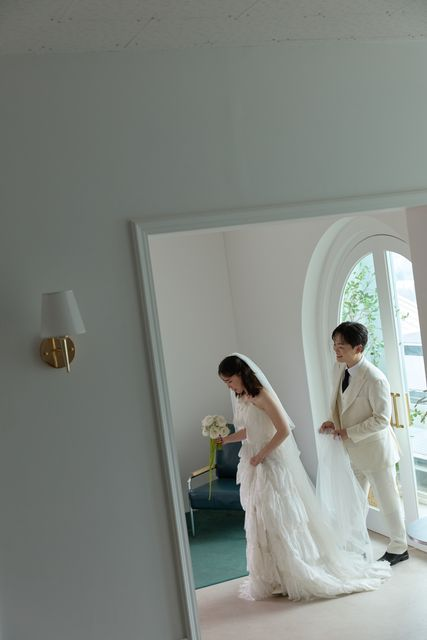
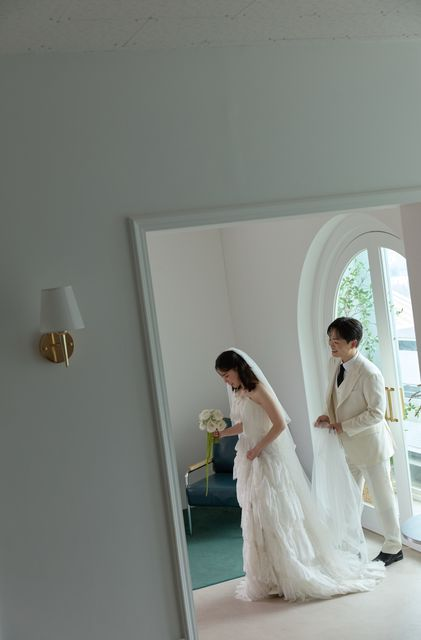
Update gallery photo 16 and refresh gallery cache
- Rebuild gallery high-res and thumbnail for updated 16.jpg
- Update gallery.js metadata with new hash (34f580fb) and dimensions (3916x5960)
- Bump gallery.js cache version to v=cdc24c75 in index.html

diff --git a/img/gallery/gallery.js b/img/gallery/gallery.js
@@ -1,2 +1,2 @@
-// tools/build_gallery.py 가 자동으로 만든 파일입니다. 직접 고치지 마세요.
-window.GALLERY = [{"file": "01.jpg", "v": "814454f7", "w": 3168, "h": 4752}, {"file": "02.jpg", "v": "5aca3f9f", "w": 2962, "h": 4443}, {"file": "03.jpg", "v": "5e148f35", "w": 3168, "h": 4752}, {"file": "04.jpg", "v": "ad3e6e6f", "w": 3168, "h": 4752}, {"file": "05.jpg", "v": "c45e9960", "w": 3168, "h": 4752}, {"file": "06.jpg", "v": "8d314324", "w": 3168, "h": 4752}, {"file": "07.jpg", "v": "007f74ca", "w": 4752, "h": 3168}, {"file": "08.jpg", "v": "6290e4d9", "w": 3168, "h": 4752}, {"file": "09.jpg", "v": "1debfd34", "w": 3168, "h": 4752}, {"file": "10.jpg", "v": "6186aca5", "w": 3917, "h": 5875}, {"file": "11.jpg", "v": "133d43b0", "w": 4000, "h": 6000}, {"file": "12.jpg", "v": "187aa15f", "w": 6000, "h": 4000}, {"file": "13.jpg", "v": "2c0ca527", "w": 5875, "h": 3917}, {"file": "14.jpg", "v": "098939de", "w": 3917, "h": 5875}, {"file": "15.jpg", "v": "b7012521", "w": 3917, "h": 5875}, {"file": "16.jpg", "v": "2ad77dd8", "w": 3917, "h": 5875}, {"file": "17.jpg", "v": "4eab936a", "w": 3917, "h": 5875}, {"file": "18.jpg", "v": "fd4e1887", "w": 4000, "h": 6000}, {"file": "19.jpg", "v": "a855bd5c", "w": 4000, "h": 6000}, {"file": "20.jpg", "v": "9a4831ae", "w": 4000, "h": 6000}, {"file": "21.jpg", "v": "c0d60d5d", "w": 2352, "h": 1568}];
+// tools/build_gallery.py 가 자동 생성한 파일입니다. 직접 고치지 마세요.
+window.GALLERY = [{"file": "01.jpg", "v": "814454f7", "w": 3168, "h": 4752}, {"file": "02.jpg", "v": "5aca3f9f", "w": 2962, "h": 4443}, {"file": "03.jpg", "v": "5e148f35", "w": 3168, "h": 4752}, {"file": "04.jpg", "v": "ad3e6e6f", "w": 3168, "h": 4752}, {"file": "05.jpg", "v": "c45e9960", "w": 3168, "h": 4752}, {"file": "06.jpg", "v": "8d314324", "w": 3168, "h": 4752}, {"file": "07.jpg", "v": "007f74ca", "w": 4752, "h": 3168}, {"file": "08.jpg", "v": "6290e4d9", "w": 3168, "h": 4752}, {"file": "09.jpg", "v": "1debfd34", "w": 3168, "h": 4752}, {"file": "10.jpg", "v": "6186aca5", "w": 3917, "h": 5875}, {"file": "11.jpg", "v": "133d43b0", "w": 4000, "h": 6000}, {"file": "12.jpg", "v": "187aa15f", "w": 6000, "h": 4000}, {"file": "13.jpg", "v": "2c0ca527", "w": 5875, "h": 3917}, {"file": "14.jpg", "v": "098939de", "w": 3917, "h": 5875}, {"file": "15.jpg", "v": "b7012521", "w": 3917, "h": 5875}, {"file": "16.jpg", "v": "34f580fb", "w": 3916, "h": 5960}, {"file": "17.jpg", "v": "4eab936a", "w": 3917, "h": 5875}, {"file": "18.jpg", "v": "fd4e1887", "w": 4000, "h": 6000}, {"file": "19.jpg", "v": "a855bd5c", "w": 4000, "h": 6000}, {"file": "20.jpg", "v": "9a4831ae", "w": 4000, "h": 6000}, {"file": "21.jpg", "v": "c0d60d5d", "w": 2352, "h": 1568}];

diff --git a/index.html b/index.html
@@ -258,7 +258,7 @@
     </form>
   </div>
   <div id="toast" role="status" aria-live="polite"></div>
-  <script src="img/gallery/gallery.js?v=03e4494f"></script>
+  <script src="img/gallery/gallery.js?v=cdc24c75"></script>
   <script src="script.js?v=39"></script>
 </body>
 

diff --git a/tools/build_gallery.py b/tools/build_gallery.py
@@ -1,19 +1,18 @@
+# -*- coding: utf-8 -*-
 """
-갤러리 사진 만들기 도구.
+갤러리 사진 생성기
 
-웨딩사진 폴더의 숫자 이름 사진(1.jpg, 2.jpg, ... N.jpg)을 번호 순서대로 갤러리에 넣습니다.
-사진을 추가·교체·삭제한 뒤 이것만 실행하면 됩니다.
+웨딩사진 폴더의 번호 붙은 사진(1.jpg, 2.jpg, ... N.jpg)을 번호 순으로 갤러리에 넣습니다.
+사진 추가/교체/삭제 후 이것만 실행하면 됩니다:
 
     python tools/build_gallery.py
 
-하는 일
-  - 웨딩사진/숫자.jpg|jpeg|png|webp 를 찾아 번호 순으로 정렬
-  - img/gallery/NN.jpg (크게 보기, 긴 변 1600px) 와 img/gallery/thumb/NN.jpg (목록, 640px) 생성
+하는 일:
+  - 웨딩사진/*.jpg|jpeg|png|webp 를 찾아 번호 순으로 정렬
+  - img/gallery/NN.jpg (큰 사진, 긴 변 1600px) 및 img/gallery/thumb/NN.jpg (썸네일, 640px) 생성
   - 더 이상 없는 번호의 이미지는 삭제
-  - img/gallery/gallery.js 에 사진 목록을 기록 (사진이 바뀌면 주소 뒤 ?v= 값도 바뀌어 캐시 문제 없음)
-  - index.html 에서 gallery.js 를 불러오는 주소의 ?v= 도 갱신
-
-필요한 것: Python, Pillow   (pip install pillow)
+  - img/gallery/gallery.js 에 사진 목록 저장 (내용 바뀔 때마다 ?v= 가 바뀌어 캐시 자동 갱신)
+  - index.html 의 gallery.js 불러오는 주소 ?v= 도 갱신
 """
 import hashlib
 import json
@@ -38,19 +37,21 @@ def main():
             found[int(m.group(1))] = os.path.join(SRC, f)
     nums = sorted(found)
     if not nums:
-        raise SystemExit('웨딩사진 폴더에 1.jpg 같은 숫자 이름 사진이 없습니다.')
+        raise SystemExit('웨딩사진 폴더에 1.jpg 형식의 사진이 없습니다.')
 
     items = []
     for n in nums:
         name = f'{n:02d}.jpg'
         im = ImageOps.exif_transpose(Image.open(found[n])).convert('RGB')
-        big = im.copy(); big.thumbnail((1600, 1600), Image.LANCZOS)
+        big = im.copy()
+        big.thumbnail((1600, 1600), Image.LANCZOS)
         big.save(os.path.join(OUT, name), quality=82, optimize=True, progressive=True)
-        sm = im.copy(); sm.thumbnail((640, 640), Image.LANCZOS)
+        sm = im.copy()
+        sm.thumbnail((640, 640), Image.LANCZOS)
         sm.save(os.path.join(THUMB, name), quality=80, optimize=True)
         h = hashlib.md5(open(found[n], 'rb').read()).hexdigest()[:8]
         items.append({'file': name, 'v': h, 'w': im.width, 'h': im.height})
-        print(f'  {n:>3} -> img/gallery/{name}')
+        print(f'  {n:>3} -> img/gallery/{name} (hash: {h}, {im.width}x{im.height})')
 
     keep = {it['file'] for it in items}
     for d in (OUT, THUMB):
@@ -58,16 +59,18 @@ def main():
             if f.lower().endswith('.jpg') and f not in keep:
                 os.remove(os.path.join(d, f))
 
-    with open(os.path.join(OUT, 'gallery.js'), 'w', encoding='utf8') as fp:
-        fp.write('// tools/build_gallery.py 가 자동으로 만든 파일입니다. 직접 고치지 마세요.\n')
+    with open(os.path.join(OUT, 'gallery.js'), 'w', encoding='utf8', newline='\n') as fp:
+        fp.write('// tools/build_gallery.py 가 자동 생성한 파일입니다. 직접 고치지 마세요.\n')
         fp.write('window.GALLERY = ' + json.dumps(items, ensure_ascii=False) + ';\n')
 
     ver = hashlib.md5(json.dumps(items).encode()).hexdigest()[:8]
     html = os.path.join(ROOT, 'index.html')
-    s = open(html, encoding='utf8').read()
+    with open(html, 'r', encoding='utf8') as fp:
+        s = fp.read()
     s = re.sub(r'img/gallery/gallery\.js(\?v=[\w]+)?', f'img/gallery/gallery.js?v={ver}', s)
-    open(html, 'w', encoding='utf8').write(s)
-    print(f'완료: 사진 {len(items)}장')
+    with open(html, 'w', encoding='utf8', newline='\n') as fp:
+        fp.write(s)
+    print(f'완료: 총 {len(items)}장, gallery.js?v={ver}')
 
 
 if __name__ == '__main__':
